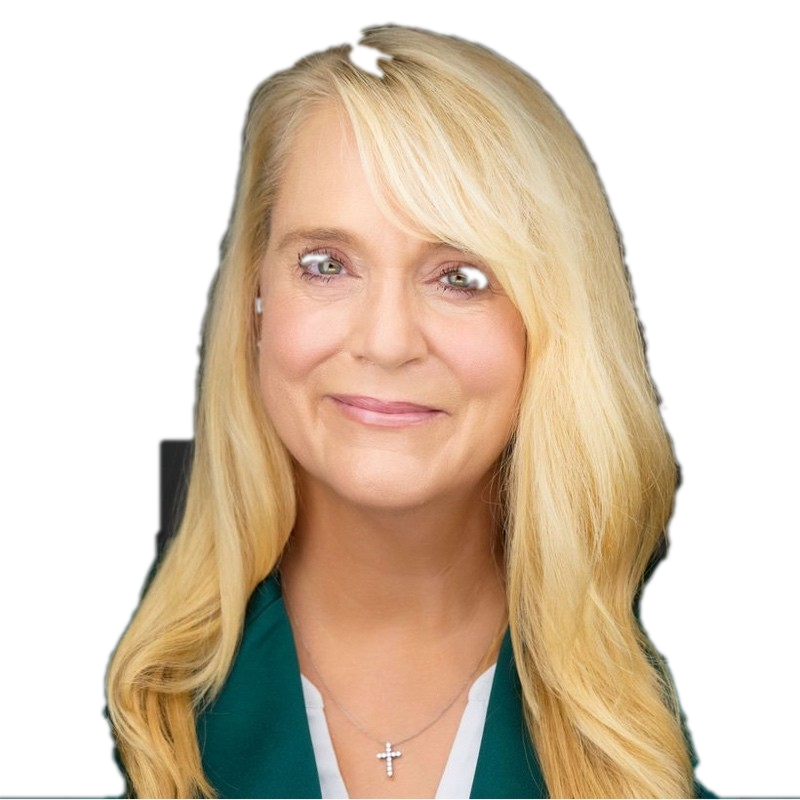
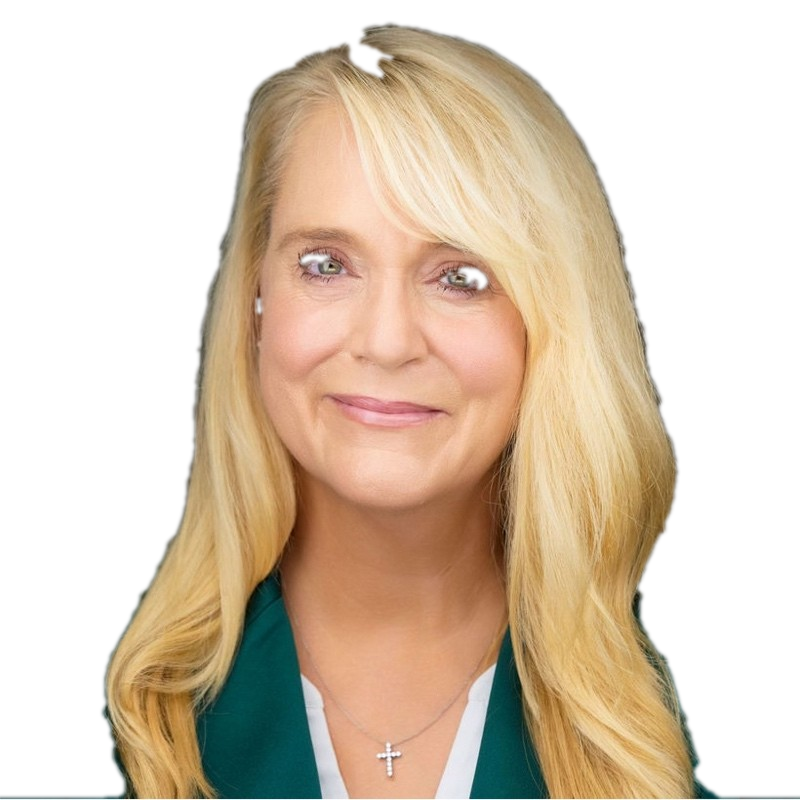
updates

diff --git a/index.html b/index.html
@@ -23,7 +23,7 @@
   *{box-sizing:border-box;margin:0;padding:0}
   html,body{height:100%}
   body{font-family:"Segoe UI",Helvetica,Arial,sans-serif;color:var(--ink);
-    height:100vh;overflow:hidden;background:#1a1430}
+    height:100vh;overflow-x:auto;overflow-y:hidden;background:#1a1430}
   img{display:block}
 
   /* ---------- living background ---------- */
@@ -71,7 +71,7 @@
   @keyframes fadeUp{from{opacity:0;transform:translateY(14px)}to{opacity:1;transform:none}}
 
   /* ---------- app ---------- */
-  .app{position:relative;z-index:10;height:100vh;display:flex;flex-direction:column;background:transparent;
+  .app{position:relative;z-index:10;height:100vh;min-width:1180px;display:flex;flex-direction:column;background:transparent;
     transform:translateY(102%);opacity:0;transition:transform .95s cubic-bezier(.76,0,.24,1) .15s,opacity .6s ease .25s}
   .app--in{transform:none;opacity:1}
 
@@ -381,7 +381,9 @@
   .peoplebg .person{right:0;z-index:0;height:94%;max-height:620px;
     -webkit-mask-image:linear-gradient(to right,transparent 0,#000 30%,#000 100%);
     mask-image:linear-gradient(to right,transparent 0,#000 30%,#000 100%)}
-  .peoplebg .metrics,.peoplebg .grid,.peoplebg .split,.peoplebg .kicker,.peoplebg h1,.peoplebg .accent-line{position:relative;z-index:2}
+  .peoplebg .metrics,.peoplebg .grid,.peoplebg .split,.peoplebg .clean-grid,.peoplebg .kicker,.peoplebg h1,.peoplebg .accent-line{position:relative;z-index:2}
+  .peoplebg .clean-grid{background:rgba(255,255,255,.76);backdrop-filter:blur(16px) saturate(150%);-webkit-backdrop-filter:blur(16px) saturate(150%);
+    border:1px solid rgba(120,110,200,.22);box-shadow:0 12px 30px rgba(60,40,120,.14);border-radius:14px;padding:6px 20px}
   .peoplebg .card,.peoplebg .metric{background:rgba(255,255,255,.76);backdrop-filter:blur(16px) saturate(150%);
     -webkit-backdrop-filter:blur(16px) saturate(150%);border:1px solid rgba(120,110,200,.22);box-shadow:0 12px 30px rgba(60,40,120,.14)}
 
@@ -454,11 +456,8 @@
 
   .index::-webkit-scrollbar,.slide::-webkit-scrollbar{width:8px}
   .index::-webkit-scrollbar-thumb,.slide::-webkit-scrollbar-thumb{background:rgba(150,150,190,.45);border-radius:4px}
-  @media(max-width:980px){
-    .index{display:none}.slide{padding:28px 24px}.slide.hero h1{font-size:38px}
-    .grid.c3,.grid.c4,.ws-grid,.dl-grid{grid-template-columns:1fr 1fr}.split,.aa,.steps-detail{grid-template-columns:1fr}
-    .callout{flex-direction:column;align-items:flex-start}.person{display:none}.tl-track{flex-wrap:wrap;gap:14px}.tl-step{flex:1 1 40%}
-  }
+  /* Layout is locked to a minimum width (.app min-width) so it never reflows/stacks.
+     On narrower viewports the deck scrolls horizontally instead of breaking. */
 </style>
 </head>
 <body>
@@ -520,7 +519,7 @@
             <p class="lead">A trusted IT resourcing and services partner for 10+ years. This plan shows how Experis delivers meaningful, near-term cost savings — while protecting delivery continuity and talent.</p>
             <div class="cta">
               <button class="btn primary" onclick="go(1)">Explore the plan →</button>
-              <button class="btn" onclick="go(10)">Jump to downloads</button>
+              <button class="btn" onclick="go(11)">Jump to downloads</button>
             </div>
           </div>
         </section>
@@ -563,7 +562,7 @@
           <div class="grid c3" style="margin-top:8px;max-width:620px">
             <div class="card"><div class="v">10 yrs</div><p>A decade-long relationship built on trust and delivery.</p></div>
             <div class="card"><div class="v">950+</div><p>Consultants deployed; 200+ became Kroger employees.</p></div>
-            <div class="card"><div class="v">60+</div><p>Projects across Merchandising, Associates, Product &amp; Marketing.</p></div>
+            <div class="card"><div class="v">60+</div><p>Projects delivered across KTD, Marketing &amp; Retail Operations.</p></div>
           </div>
           <div class="metrics" style="max-width:620px;margin-top:18px">
             <div class="metric"><div class="big">$32.3M</div><div class="lbl">2025 Spend</div></div>
@@ -601,9 +600,8 @@
             <div class="org-tier t4"><h4>Operations</h4><span>Process, Experience &amp; Compliance</span></div>
             <div class="org-row">
               <div class="pchip"><div class="av" style="background:#7d5be6">WF</div><div class="pn">Wendy Ferreira</div><div class="pr">Consultant Experience Mgr*</div></div>
-              <div class="pchip"><div class="av" style="background:#7d5be6"></div><div class="pn">Onboarding</div><div class="pr">People</div></div>
               <div class="pchip"><div class="av" style="background:#7d5be6">AF</div><div class="pn">Aubryn Falk</div><div class="pr">Invoicing</div></div>
-              <div class="pchip"><div class="av" style="background:#7d5be6"></div><div class="pn">Legal/Compliance</div><div class="pr">Contract</div></div>
+              <div class="pchip"><div class="av" style="background:#7d5be6">GS</div><div class="pn">Gregory Schrieber</div><div class="pr">Sr. Counsel · Legal/Compliance</div></div>
             </div>
           </div>
           <div class="org-note">*Dedicated to Kroger</div>
@@ -634,8 +632,8 @@
           <div class="lever-mini">
             <div class="lm-card active"><div class="ic"><svg viewBox="0 0 24 24"><path d="M12 4v13"/><path d="M7 12l5 5 5-5"/><path d="M5 21h14"/></svg></div><div><div class="lm-t">Cost Efficiency</div><div class="lm-v">10% Bill Rate</div></div></div>
             <div class="lm-card" onclick="go(6)"><div class="ic"><svg viewBox="0 0 24 24"><path d="M3 5h18l-7 8v6l-4-2v-4z"/></svg></div><div><div class="lm-t">Vendor Streamlining</div><div class="lm-v">$1–7M</div></div></div>
-            <div class="lm-card" onclick="go(7)"><div class="ic"><svg viewBox="0 0 24 24"><path d="M12 3l1.7 4.8L18.5 9.5l-4.8 1.7L12 16l-1.7-4.8L5.5 9.5l4.8-1.7z"/><path d="M18.5 14l.7 2.1 2.1.7-2.1.7-.7 2.1-.7-2.1-2.1-.7 2.1-.7z"/></svg></div><div><div class="lm-t">AI &amp; Automation</div><div class="lm-v">$1M target</div></div></div>
-            <div class="lm-card" onclick="go(4)"><div class="ic"><svg viewBox="0 0 24 24"><path d="M4 12a8 8 0 0 1 13.6-5.7"/><path d="M20 12a8 8 0 0 1-13.6 5.7"/><path d="M18 3v4h-4"/><path d="M6 21v-4h4"/></svg></div><div><div class="lm-t">Standardize Process &amp; Pricing</div><div class="lm-v">Rate Card</div></div></div>
+            <div class="lm-card" onclick="go(8)"><div class="ic"><svg viewBox="0 0 24 24"><path d="M12 3l1.7 4.8L18.5 9.5l-4.8 1.7L12 16l-1.7-4.8L5.5 9.5l4.8-1.7z"/><path d="M18.5 14l.7 2.1 2.1.7-2.1.7-.7 2.1-.7-2.1-2.1-.7 2.1-.7z"/></svg></div><div><div class="lm-t">AI &amp; Automation</div><div class="lm-v">$1M target</div></div></div>
+            <div class="lm-card" onclick="go(9)"><div class="ic"><svg viewBox="0 0 24 24"><path d="M4 12a8 8 0 0 1 13.6-5.7"/><path d="M20 12a8 8 0 0 1-13.6 5.7"/><path d="M18 3v4h-4"/><path d="M6 21v-4h4"/></svg></div><div><div class="lm-t">Standardize Process &amp; Pricing</div><div class="lm-v">Rate Card</div></div></div>
           </div>
           <p class="lead" style="margin:-4px 0 18px">Two contributors combine into the Cost Efficiency lever — $2.1M in Kroger fiscal 2026 ($3.1M annualized).</p>
           <div class="split">
@@ -663,40 +661,16 @@
           <div class="lever-mini">
             <div class="lm-card" onclick="go(5)"><div class="ic"><svg viewBox="0 0 24 24"><path d="M12 4v13"/><path d="M7 12l5 5 5-5"/><path d="M5 21h14"/></svg></div><div><div class="lm-t">Cost Efficiency</div><div class="lm-v">10% Bill Rate</div></div></div>
             <div class="lm-card active"><div class="ic"><svg viewBox="0 0 24 24"><path d="M3 5h18l-7 8v6l-4-2v-4z"/></svg></div><div><div class="lm-t">Vendor Streamlining</div><div class="lm-v">$1–7M</div></div></div>
-            <div class="lm-card" onclick="go(7)"><div class="ic"><svg viewBox="0 0 24 24"><path d="M12 3l1.7 4.8L18.5 9.5l-4.8 1.7L12 16l-1.7-4.8L5.5 9.5l4.8-1.7z"/><path d="M18.5 14l.7 2.1 2.1.7-2.1.7-.7 2.1-.7-2.1-2.1-.7 2.1-.7z"/></svg></div><div><div class="lm-t">AI &amp; Automation</div><div class="lm-v">$1M target</div></div></div>
-            <div class="lm-card" onclick="go(4)"><div class="ic"><svg viewBox="0 0 24 24"><path d="M4 12a8 8 0 0 1 13.6-5.7"/><path d="M20 12a8 8 0 0 1-13.6 5.7"/><path d="M18 3v4h-4"/><path d="M6 21v-4h4"/></svg></div><div><div class="lm-t">Standardize Process &amp; Pricing</div><div class="lm-v">Rate Card</div></div></div>
+            <div class="lm-card" onclick="go(8)"><div class="ic"><svg viewBox="0 0 24 24"><path d="M12 3l1.7 4.8L18.5 9.5l-4.8 1.7L12 16l-1.7-4.8L5.5 9.5l4.8-1.7z"/><path d="M18.5 14l.7 2.1 2.1.7-2.1.7-.7 2.1-.7-2.1-2.1-.7 2.1-.7z"/></svg></div><div><div class="lm-t">AI &amp; Automation</div><div class="lm-v">$1M target</div></div></div>
+            <div class="lm-card" onclick="go(9)"><div class="ic"><svg viewBox="0 0 24 24"><path d="M4 12a8 8 0 0 1 13.6-5.7"/><path d="M20 12a8 8 0 0 1-13.6 5.7"/><path d="M18 3v4h-4"/><path d="M6 21v-4h4"/></svg></div><div><div class="lm-t">Standardize Process &amp; Pricing</div><div class="lm-v">Rate Card</div></div></div>
           </div>
           <p class="lead">Annualized savings scale linearly — about <b style="color:var(--violet)">$23.1K for every consultant</b> transitioned to Experis.</p>
           <div class="pictos" id="pictos"></div>
           <p style="font-size:11.5px;color:var(--gray);margin-top:16px">*Estimated annualized savings; assumes $95/hr average bill rate and 20% mark-up. Savings scale linearly with consultants transitioned.</p>
         </section>
 
-        <!-- 6 AI -->
-        <section class="slide" data-title="AI &amp; Automation">
-          <h1>AI &amp; Automation</h1>
-          <div class="accent-line"></div>
-          <div class="lever-mini">
-            <div class="lm-card" onclick="go(5)"><div class="ic"><svg viewBox="0 0 24 24"><path d="M12 4v13"/><path d="M7 12l5 5 5-5"/><path d="M5 21h14"/></svg></div><div><div class="lm-t">Cost Efficiency</div><div class="lm-v">10% Bill Rate</div></div></div>
-            <div class="lm-card" onclick="go(6)"><div class="ic"><svg viewBox="0 0 24 24"><path d="M3 5h18l-7 8v6l-4-2v-4z"/></svg></div><div><div class="lm-t">Vendor Streamlining</div><div class="lm-v">$1–7M</div></div></div>
-            <div class="lm-card active"><div class="ic"><svg viewBox="0 0 24 24"><path d="M12 3l1.7 4.8L18.5 9.5l-4.8 1.7L12 16l-1.7-4.8L5.5 9.5l4.8-1.7z"/><path d="M18.5 14l.7 2.1 2.1.7-2.1.7-.7 2.1-.7-2.1-2.1-.7 2.1-.7z"/></svg></div><div><div class="lm-t">AI &amp; Automation</div><div class="lm-v">$1M target</div></div></div>
-            <div class="lm-card" onclick="go(4)"><div class="ic"><svg viewBox="0 0 24 24"><path d="M4 12a8 8 0 0 1 13.6-5.7"/><path d="M20 12a8 8 0 0 1-13.6 5.7"/><path d="M18 3v4h-4"/><path d="M6 21v-4h4"/></svg></div><div><div class="lm-t">Standardize Process &amp; Pricing</div><div class="lm-v">Rate Card</div></div></div>
-          </div>
-          <div class="split" style="grid-template-columns:1fr .95fr;align-items:center">
-            <div>
-              <p class="lead">Applying AI and automation across delivery and operations to remove manual effort and accelerate outcomes — without adding cost.</p>
-              <ul class="clean">
-                <li>Automation of repetitive resourcing and reporting workflows</li>
-                <li>AI-assisted delivery to improve speed and quality</li>
-                <li>Continuous efficiency gains across the engagement</li>
-              </ul>
-              <div class="callout" style="margin-top:20px"><div class="t">Targeted savings<span>Goalpost — AI &amp; automation</span></div><div class="n">~$1M</div></div>
-            </div>
-            <div class="ai-wrap"><div class="ai-orb"><canvas id="aiCanvas" width="720" height="720" aria-hidden="true"></canvas></div></div>
-          </div>
-        </section>
-
-        <!-- 7 TRANSITION BEST PRACTICES (person) -->
-        <section class="slide peoplebg" data-title="Standardized Processes">
+        <!-- VENDOR STREAMLINING (cont'd) — talent transition -->
+        <section class="slide peoplebg" data-title="Vendor Streamlining (cont'd)">
           <span class="kicker">Ensuring a smooth program change</span>
           <h1>Talent transition best practices</h1>
           <div class="accent-line"></div>
@@ -714,6 +688,49 @@
             <div class="ci">Provides options and a clear timeline</div>
           </div>
           <img class="person" src="assets/brand/person-b2c.png" alt="">
+        </section>
+
+        <!-- 6 AI -->
+        <section class="slide" data-title="AI &amp; Automation">
+          <h1>AI &amp; Automation</h1>
+          <div class="accent-line"></div>
+          <div class="lever-mini">
+            <div class="lm-card" onclick="go(5)"><div class="ic"><svg viewBox="0 0 24 24"><path d="M12 4v13"/><path d="M7 12l5 5 5-5"/><path d="M5 21h14"/></svg></div><div><div class="lm-t">Cost Efficiency</div><div class="lm-v">10% Bill Rate</div></div></div>
+            <div class="lm-card" onclick="go(6)"><div class="ic"><svg viewBox="0 0 24 24"><path d="M3 5h18l-7 8v6l-4-2v-4z"/></svg></div><div><div class="lm-t">Vendor Streamlining</div><div class="lm-v">$1–7M</div></div></div>
+            <div class="lm-card active"><div class="ic"><svg viewBox="0 0 24 24"><path d="M12 3l1.7 4.8L18.5 9.5l-4.8 1.7L12 16l-1.7-4.8L5.5 9.5l4.8-1.7z"/><path d="M18.5 14l.7 2.1 2.1.7-2.1.7-.7 2.1-.7-2.1-2.1-.7 2.1-.7z"/></svg></div><div><div class="lm-t">AI &amp; Automation</div><div class="lm-v">$1M target</div></div></div>
+            <div class="lm-card" onclick="go(9)"><div class="ic"><svg viewBox="0 0 24 24"><path d="M4 12a8 8 0 0 1 13.6-5.7"/><path d="M20 12a8 8 0 0 1-13.6 5.7"/><path d="M18 3v4h-4"/><path d="M6 21v-4h4"/></svg></div><div><div class="lm-t">Standardize Process &amp; Pricing</div><div class="lm-v">Rate Card</div></div></div>
+          </div>
+          <div class="split" style="grid-template-columns:1fr .95fr;align-items:center">
+            <div>
+              <p class="lead">Applying AI and automation across delivery and operations to remove manual effort and accelerate outcomes — without adding cost.</p>
+              <ul class="clean">
+                <li>Automation of repetitive resourcing and reporting workflows</li>
+                <li>AI-assisted delivery to improve speed and quality</li>
+                <li>Continuous efficiency gains across the engagement</li>
+              </ul>
+              <div class="callout" style="margin-top:20px"><div class="t">Targeted savings<span>Goalpost — AI &amp; automation</span></div><div class="n">~$1M</div></div>
+            </div>
+            <div class="ai-wrap"><div class="ai-orb"><canvas id="aiCanvas" width="720" height="720" aria-hidden="true"></canvas></div></div>
+          </div>
+        </section>
+
+        <!-- STANDARDIZE PROCESS & PRICING (lever detail) -->
+        <section class="slide" data-title="Standardized Processes">
+          <h1>Standardize Process &amp; Pricing</h1>
+          <div class="accent-line"></div>
+          <div class="lever-mini">
+            <div class="lm-card" onclick="go(5)"><div class="ic"><svg viewBox="0 0 24 24"><path d="M12 4v13"/><path d="M7 12l5 5 5-5"/><path d="M5 21h14"/></svg></div><div><div class="lm-t">Cost Efficiency</div><div class="lm-v">10% Bill Rate</div></div></div>
+            <div class="lm-card" onclick="go(6)"><div class="ic"><svg viewBox="0 0 24 24"><path d="M3 5h18l-7 8v6l-4-2v-4z"/></svg></div><div><div class="lm-t">Vendor Streamlining</div><div class="lm-v">$1–7M</div></div></div>
+            <div class="lm-card" onclick="go(8)"><div class="ic"><svg viewBox="0 0 24 24"><path d="M12 3l1.7 4.8L18.5 9.5l-4.8 1.7L12 16l-1.7-4.8L5.5 9.5l4.8-1.7z"/><path d="M18.5 14l.7 2.1 2.1.7-2.1.7-.7 2.1-.7-2.1-2.1-.7 2.1-.7z"/></svg></div><div><div class="lm-t">AI &amp; Automation</div><div class="lm-v">$1M target</div></div></div>
+            <div class="lm-card active"><div class="ic"><svg viewBox="0 0 24 24"><path d="M4 12a8 8 0 0 1 13.6-5.7"/><path d="M20 12a8 8 0 0 1-13.6 5.7"/><path d="M18 3v4h-4"/><path d="M6 21v-4h4"/></svg></div><div><div class="lm-t">Standardize Process &amp; Pricing</div><div class="lm-v">Rate Card</div></div></div>
+          </div>
+          <p class="lead">One Experis rate card and playbook — engineered for sustained, year-round value.</p>
+          <div class="grid c2" style="margin-top:18px">
+            <div class="card"><span class="tag">Rate card reduction</span><h3>10% cut to the existing rate card</h3><p>An across-the-board reduction applied to the current Experis rate card.</p></div>
+            <div class="card"><span class="tag">Modernized rate card</span><h3>Partnership-driven rate card refresh</h3><p>A refreshed SOW rate card that meets Kroger where they are, with room for continued partnership at scale.</p></div>
+            <div class="card"><span class="tag">Flexible delivery</span><h3>On-shore &amp; near-shore options</h3><p>An optimized delivery mix that balances cost, speed, and proximity.</p></div>
+            <div class="card"><span class="tag">Steady state</span><h3>Sustained YoY savings</h3><p>Standardized pricing compounds value through the rest of the year and beyond.</p></div>
+          </div>
         </section>
 
         <!-- WORKSTREAMS -->